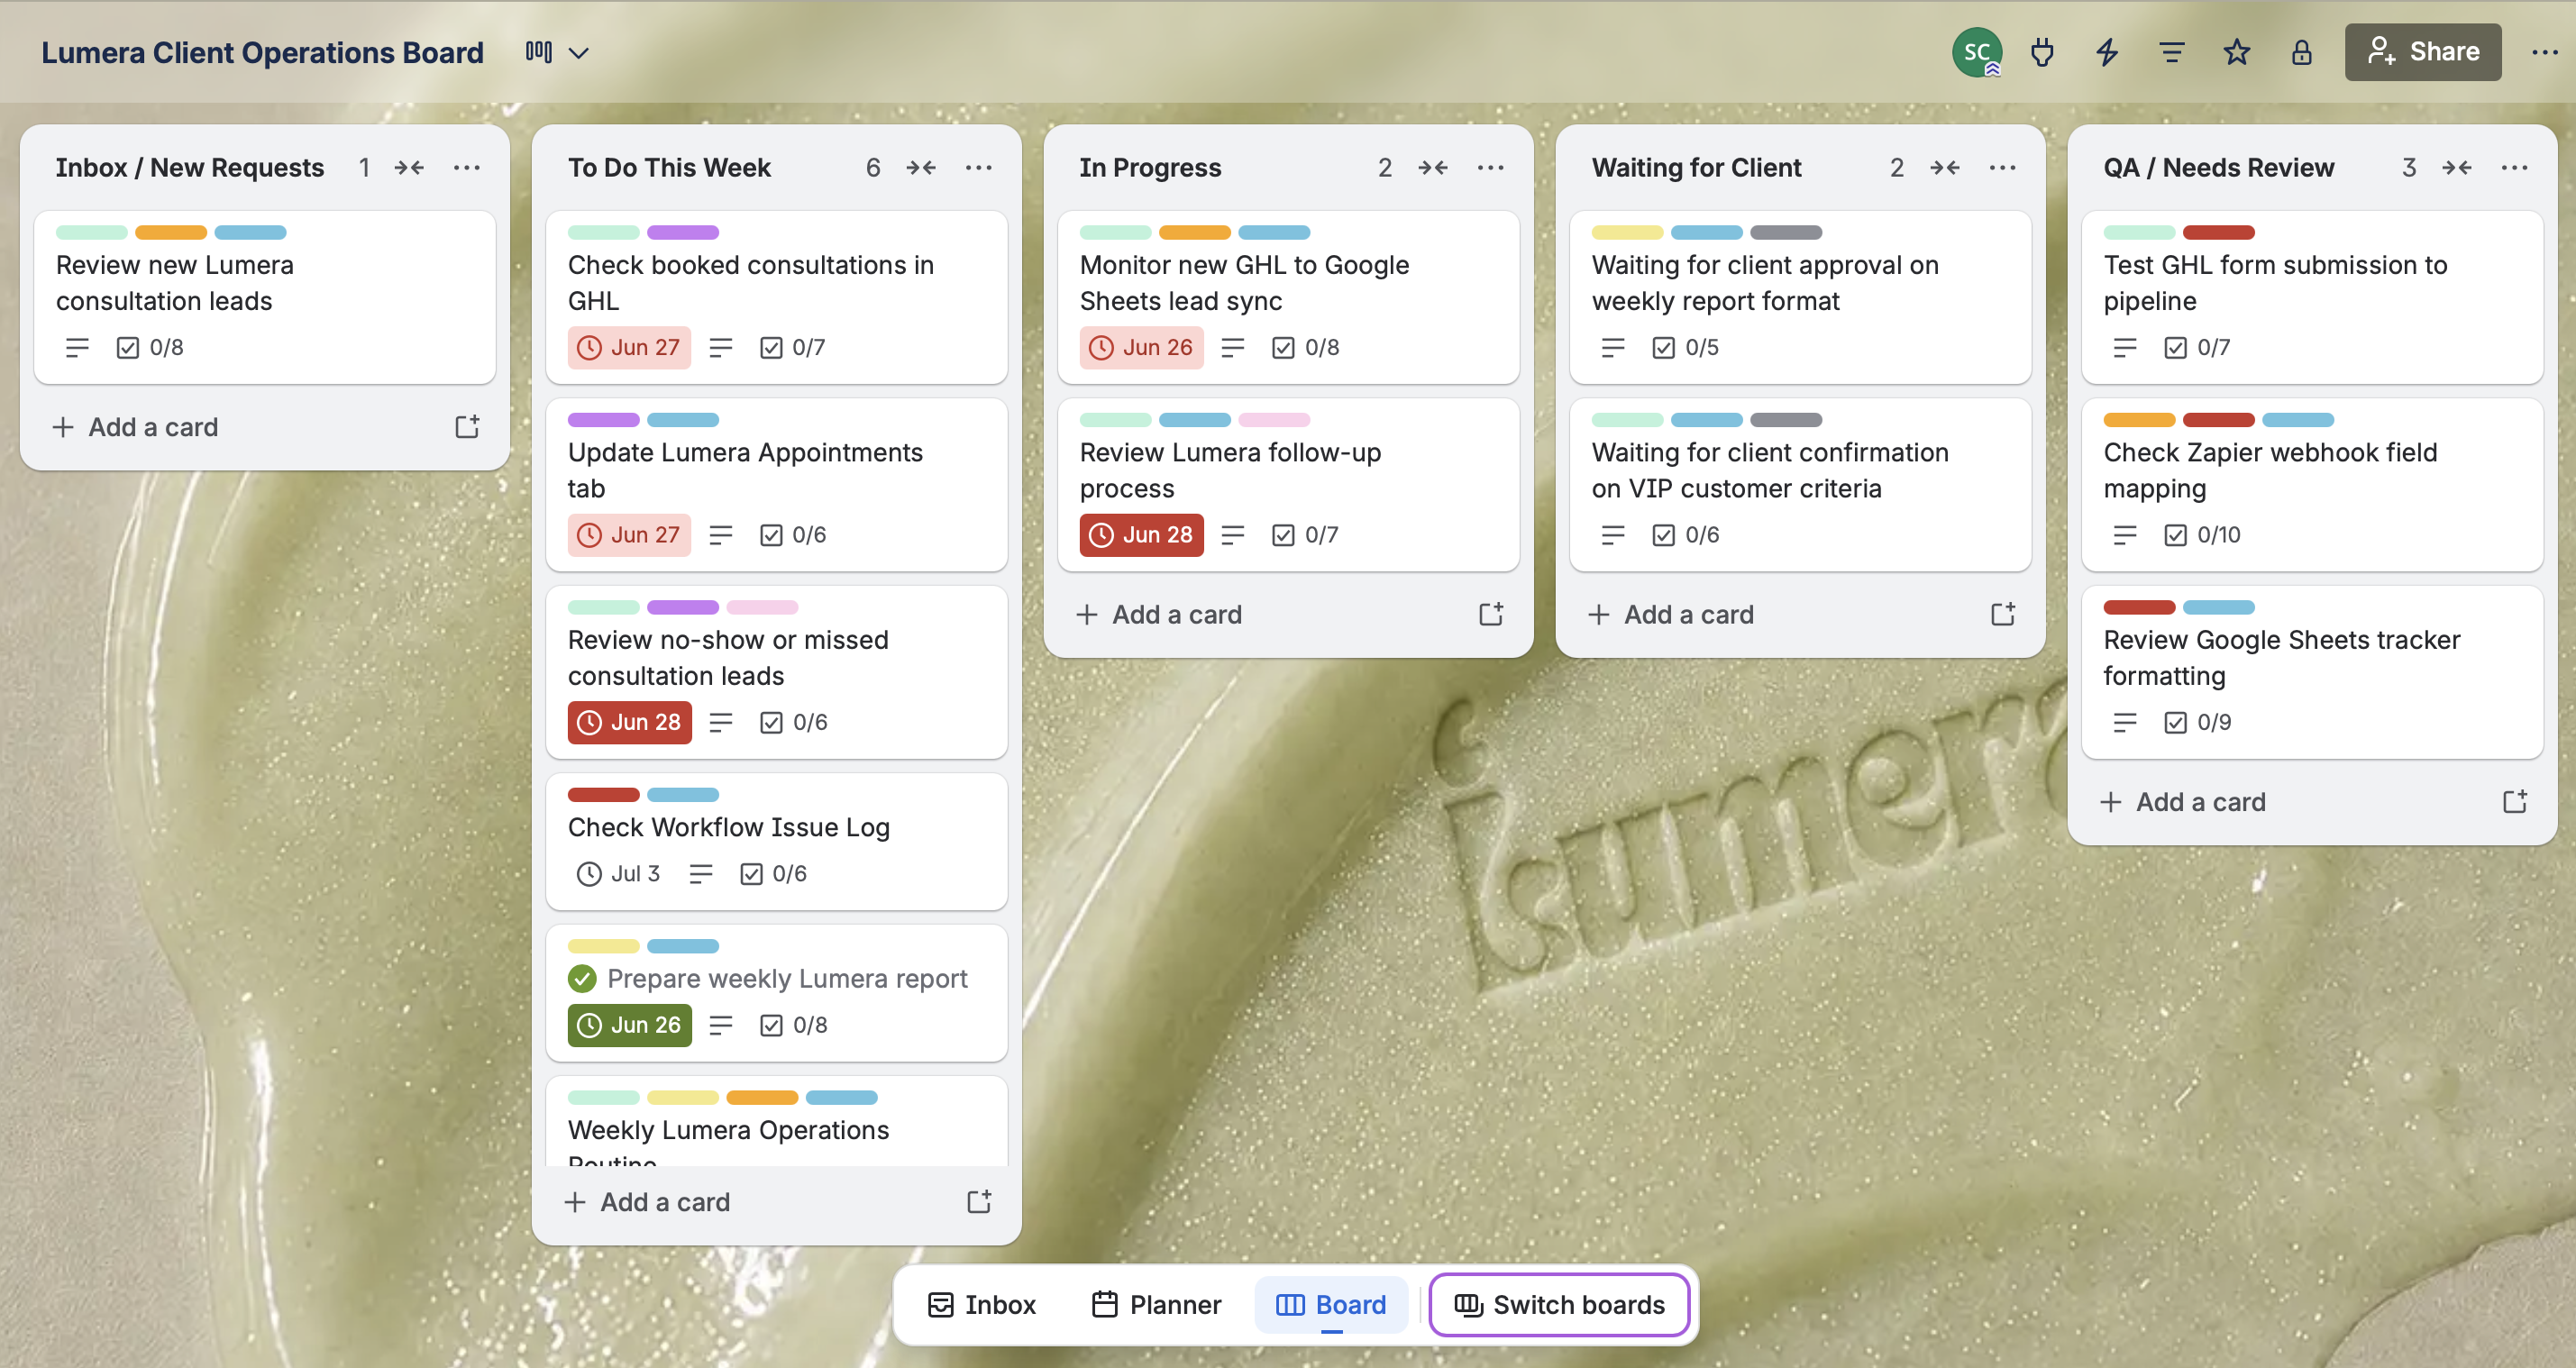
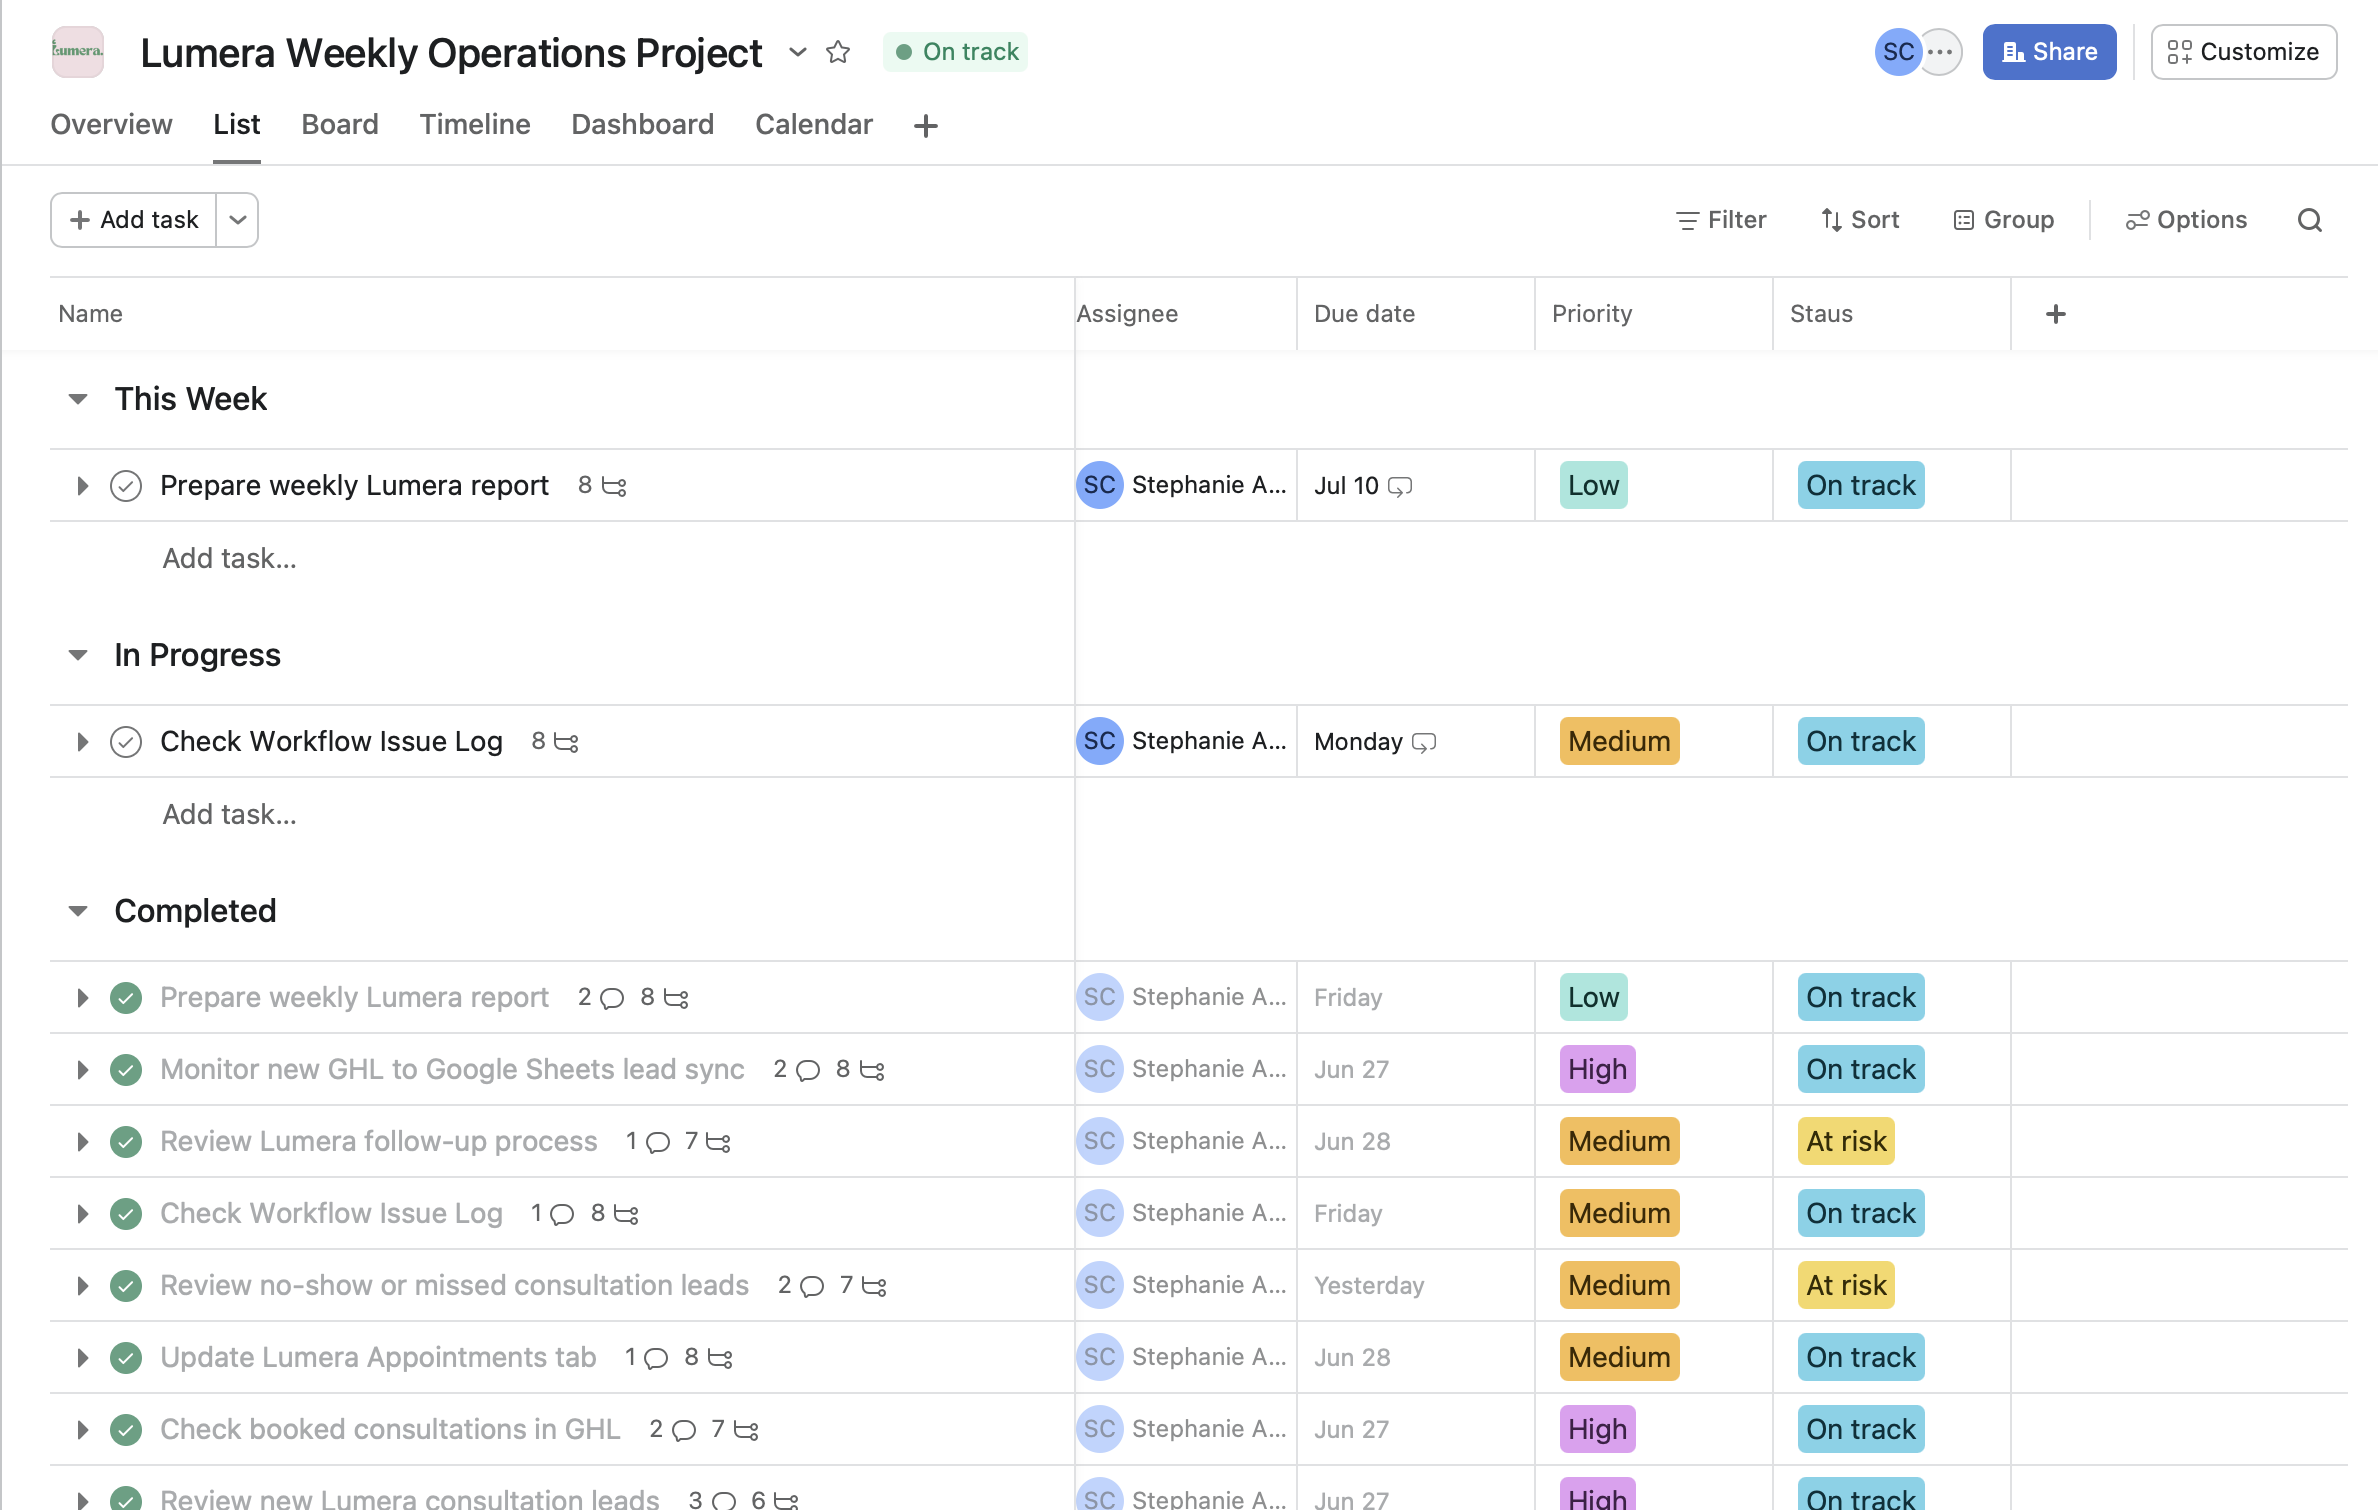
Redesign Lumera Operations Layer: stacked step layout, restructured cards + images, replaced assets

diff --git a/src/components/site/Lumera.tsx b/src/components/site/Lumera.tsx
@@ -10,11 +10,11 @@ import productPhotography from "@/assets/projects/lumera/product-photography.png
 import ghlForm from "@/assets/projects/gohighlevel/form.png";
 import ghlBooking from "@/assets/projects/gohighlevel/booking-calendar.png";
 import ghlProductPage from "@/assets/projects/gohighlevel/product-page.png";
-import opsSheets from "@/assets/projects/operations-layer/google-sheets.png";
+import opsSheetsAppts from "@/assets/projects/operations-layer/google-sheets-appointments.png";
+import opsSheetsTracker from "@/assets/projects/operations-layer/google-sheets-tracker.png";
 import opsZapier from "@/assets/projects/operations-layer/zapier.png";
 import opsTrello from "@/assets/projects/operations-layer/trello.png";
 import opsAsana from "@/assets/projects/operations-layer/asana.png";
-import opsWeekly from "@/assets/projects/operations-layer/weekly-report.png";
 
 const lumeraWhatIDid = [
   {
@@ -62,22 +62,36 @@ const workflowSteps = [
   },
 ];
 
-const opsCards = [
+const opsSteps = [
   {
-    t: "Zapier + Google Sheets",
-    d: "GHL sends lead data via webhook when a consultation is booked. Zapier catches it and creates a new row automatically — feeding into a multi-tab tracker covering Leads, Appointments, Customers, VIP, Inactive, Follow-ups, and Weekly Reports.",
+    n: "01",
+    heading: "Zapier Integration",
+    description: "GHL sends lead data via webhook when a consultation is booked. Zapier catches it and creates a new row automatically in the Leads tracker tab.",
+    images: [{ src: opsZapier, alt: "Zapier automation success", caption: "zapier" }],
   },
   {
-    t: "Trello Operations Board",
-    d: "An 8-column board manages all recurring VA tasks — Inbox, To Do, In Progress, Waiting for Client, QA, Completed, Issues, and Templates. Each card has labels, due dates, and step-by-step process checklists.",
+    n: "02",
+    heading: "Leads & Appointments Tracker",
+    description: "Leads flow from GHL into the tracker's Leads tab. Appointments are tracked with status, contact info, and follow-up dates in the Appointments tab.",
+    images: [{ src: opsSheetsAppts, alt: "Google Sheets appointments tracker", caption: "appointments tracker" }],
   },
   {
-    t: "Workflow Issue Log + Weekly Reporting",
-    d: "Every workflow was tested and documented with expected vs. actual results logged. A Weekly Report tab tracks new leads, bookings, attended, no-shows, follow-ups, and open issues week by week.",
+    n: "03",
+    heading: "Weekly Issue Log & Reporting",
+    description: "A Weekly Report tab tracks new leads, bookings, attended, no-shows, follow-ups, and open issues. Workflow tests are logged with expected vs. actual results.",
+    images: [{ src: opsSheetsTracker, alt: "Google Sheets weekly report tracker", caption: "tracker" }],
   },
   {
-    t: "Asana Weekly Project",
-    d: "A weekly operations project tracks all tasks with assignee, priority, due date, and status. A full operations simulation was completed and documented with subtasks and activity comments in Asana.",
+    n: "04",
+    heading: "Trello Operations Board",
+    description: "An 8-column board manages all recurring VA tasks — Inbox, To Do, In Progress, Waiting for Client, QA, Completed, Issues, and Templates. Each card has labels, due dates, and step-by-step process checklists.",
+    images: [{ src: opsTrello, alt: "Trello operations board", caption: "trello" }],
+  },
+  {
+    n: "05",
+    heading: "Asana Weekly Project",
+    description: "A weekly operations project tracks all tasks with assignee, priority, due date, and status. A full operations simulation was completed and documented with subtasks and activity comments in Asana.",
+    images: [{ src: opsAsana, alt: "Asana weekly project", caption: "asana" }],
   },
 ];
 
@@ -338,7 +352,10 @@ export function Lumera() {
       {/* Operations Layer */}
       <div className="bg-chocolate py-24 sm:py-32">
         <div className="mx-auto max-w-7xl px-5 sm:px-8">
-          <SectionLabel>Concept Projects / Lumera</SectionLabel>
+          <div className="flex items-center justify-between">
+            <SectionLabel>Lumera / Operations Layer</SectionLabel>
+            <PageNumber index={11} total={12} />
+          </div>
           <h3 className="font-display text-yellow-pale mt-6 max-w-3xl text-5xl leading-tight sm:text-7xl">
             Operations Layer.
           </h3>
@@ -348,56 +365,36 @@ export function Lumera() {
             documented, and every workflow was tested with real data before being marked complete.
           </p>
 
-          <div className="mt-14 grid gap-px bg-gold/20 sm:grid-cols-2">
-            {opsCards.map((c) => (
-              <div key={c.t} className="bg-chocolate p-8">
-                <h4 className="font-display text-yellow-pale text-2xl">{c.t}</h4>
-                <p className="text-cream/75 mt-3 leading-relaxed">{c.d}</p>
-              </div>
-            ))}
-          </div>
+          <div className="mt-14 flex flex-col gap-16">
+            {opsSteps.map((s) => (
+              <Reveal key={s.n}>
+                <div className="flex flex-col gap-6">
+                  <div>
+                    <div className="font-display text-gold text-sm tracking-[0.2em] uppercase">
+                      {s.n} / {s.heading.toUpperCase()}
+                    </div>
+                    <h4 className="font-display text-yellow-pale text-3xl mt-3">
+                      {s.heading}
+                    </h4>
+                    <p className="text-cream/75 mt-4 max-w-2xl leading-relaxed">
+                      {s.description}
+                    </p>
+                  </div>
 
-          <div className="mt-12 grid gap-6 sm:grid-cols-3 lg:grid-cols-5">
-            <Reveal className="aspect-[16/9] w-full">
-              <img
-                src={opsSheets}
-                alt="Google Sheets tracker"
-                className="h-full w-full object-cover border border-gold/20 shadow-md shadow-black/60 brightness-110"
-                loading="lazy"
-              />
-            </Reveal>
-            <Reveal className="aspect-[16/9] w-full">
-              <img
-                src={opsZapier}
-                alt="Zapier success"
-                className="h-full w-full object-cover border border-gold/20 shadow-md shadow-black/60 brightness-110"
-                loading="lazy"
-              />
-            </Reveal>
-            <Reveal className="aspect-[16/9] w-full">
-              <img
-                src={opsTrello}
-                alt="Trello board"
-                className="h-full w-full object-cover border border-gold/20 shadow-md shadow-black/60 brightness-110"
-                loading="lazy"
-              />
-            </Reveal>
-            <Reveal className="aspect-[16/9] w-full">
-              <img
-                src={opsAsana}
-                alt="Asana project"
-                className="h-full w-full object-cover border border-gold/20 shadow-md shadow-black/60 brightness-110"
-                loading="lazy"
-              />
-            </Reveal>
-            <Reveal className="aspect-[16/9] w-full">
-              <img
-                src={opsWeekly}
-                alt="Weekly report"
-                className="h-full w-full object-cover border border-gold/20 shadow-md shadow-black/60 brightness-110"
-                loading="lazy"
-              />
-            </Reveal>
+                  <div className="bg-soft-black rounded-xl p-3 max-w-4xl mx-auto">
+                    <img
+                      src={s.images[0].src}
+                      alt={s.images[0].alt}
+                      className="w-full max-h-80 object-contain border border-gold/20 shadow-md shadow-black/60"
+                      loading="lazy"
+                    />
+                    <p className="text-cream/50 text-[0.65rem] tracking-[0.15em] uppercase mt-2">
+                      {s.images[0].caption}
+                    </p>
+                  </div>
+                </div>
+              </Reveal>
+            ))}
           </div>
         </div>
       </div>